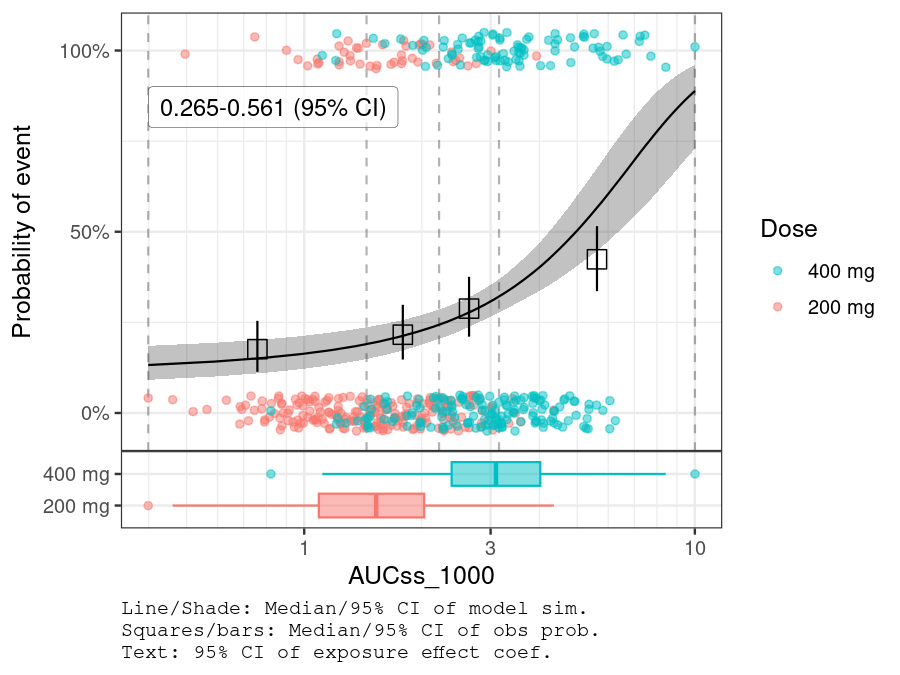
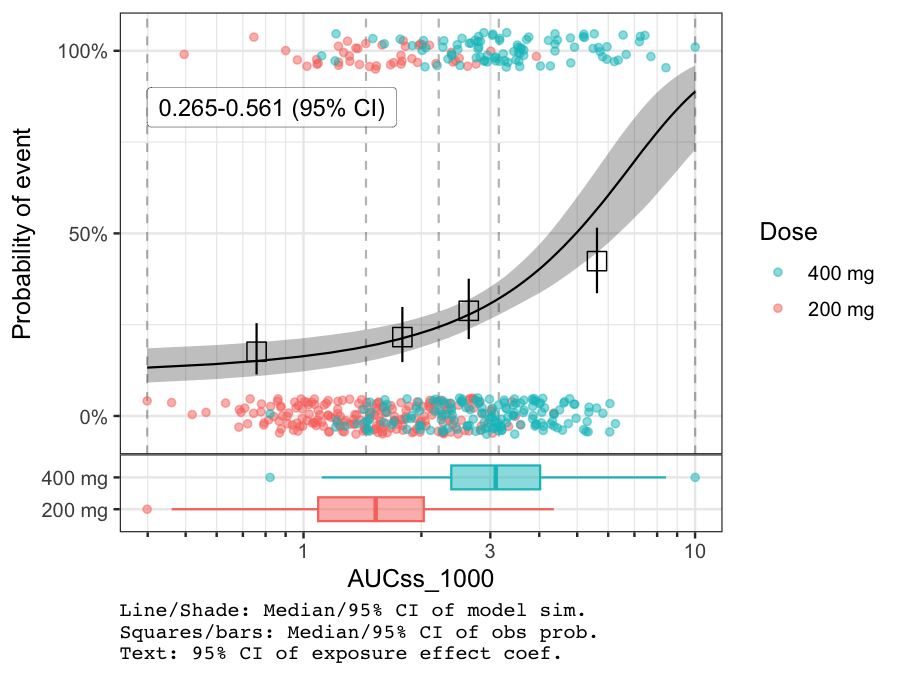
Update README

diff --git a/README.md b/README.md
@@ -156,7 +156,7 @@ ermod_bin
 # Using `*` instead of `+` so that scale can be
 # applied for both panels (main plot and boxplot)
 plot_er_gof(ermod_bin, var_group = "Dose", show_coef_exp = TRUE) *
-  xgxr::xgx_scale_x_log10()
+  xgxr::xgx_scale_x_log10(guide = ggplot2::guide_axis(minor.ticks = TRUE))
 ```
 
 <img src="man/figures/README-ermod_bin-1.png" width="75%" />
